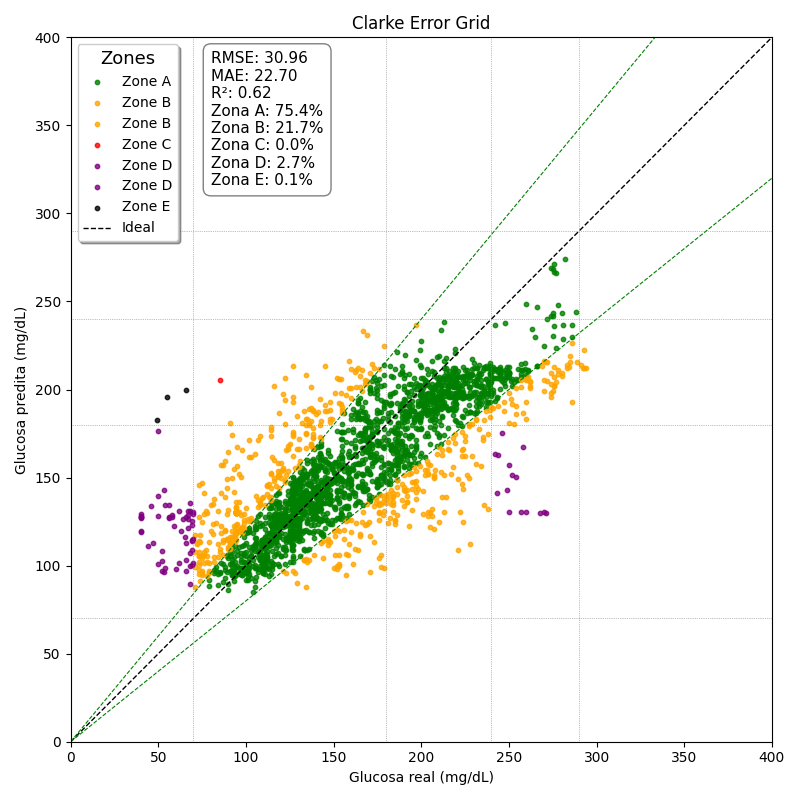
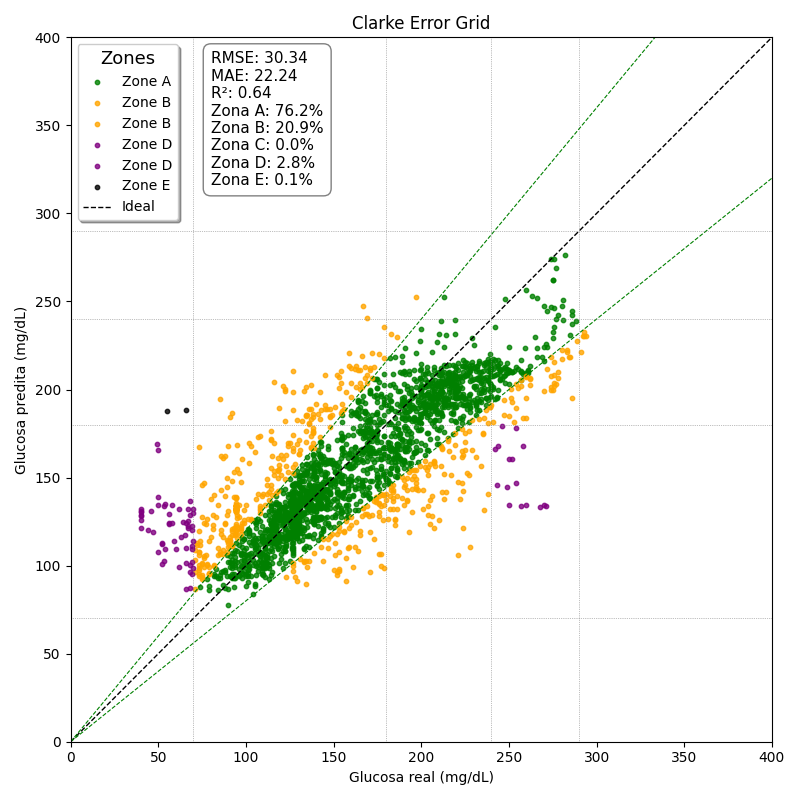
Works but could be better

diff --git a/models/training.py b/models/training.py
@@ -1,12 +1,20 @@
+""" Model training using XGBRegressor """
 from sklearn.model_selection import GridSearchCV, RandomizedSearchCV
 from sklearn.metrics import mean_squared_error
 from sklearn.preprocessing import MinMaxScaler, StandardScaler, RobustScaler
 import xgboost as xgb
 import numpy as np
+import json
 
-def train_model(X_train, Y_train, X_test, Y_test):
+def xgbRegressor_model(X_train, Y_train, X_test, Y_test, Search: str = "auto"):
+    from sklearn.model_selection import GridSearchCV, RandomizedSearchCV
+    from sklearn.metrics import mean_squared_error
+    from sklearn.preprocessing import StandardScaler
+    import xgboost as xgb
+    import numpy as np
+
     # Escalem les features
-    x_scaler = MinMaxScaler()
+    x_scaler = StandardScaler()
     X_train_scaled = x_scaler.fit_transform(X_train)
     X_test_scaled = x_scaler.transform(X_test)
 
@@ -15,16 +23,26 @@ def train_model(X_train, Y_train, X_test, Y_test):
     Y_test_array = Y_test.to_numpy().ravel()
 
     # Hiperparàmetres
-    param_grid = {
-        'n_estimators': [100,200],
-        'max_depth': [3, 5, 7],
-        'learning_rate': [0.01, 0.05],
-        'subsample': [0.6, 0.8],
-        'colsample_bytree': [0.6, 0.8],
-        'min_child_weight': [1, 5, 10],
-        # 'lambda': [1, 5, 10],        
-        # 'alpha': [0, 0.5, 1],        
-        'gamma': [0, 0.1],      
+    auto_distribution = {
+        'n_estimators': [100, 200, 300],
+        'max_depth': [3, 5, 6],  # Menys profunditat per evitar sobreajustament
+        'learning_rate': [0.01, 0.05, 0.1],  # Incrementar una mica el learning_rate
+        'subsample': [0.6, 0.7, 0.8],  # Provar més valors per augmentar la robustesa
+        'colsample_bytree': [0.6, 0.7, 0.8],  # Augmentar per reduir l'overfitting
+        'min_child_weight': [1, 3, 5],  # Augmentar min_child_weight per fer-ho més robust
+        'gamma': [0, 0.05, 0.1],  # Provar valors més baixos per gamma
+    }
+
+    random_distribution = {
+        'n_estimators': np.arange(100, 500, 100),
+        'learning_rate': np.linspace(0.01, 0.2, 20),  # Més alt per accelerar l'aprenentatge
+        'max_depth': np.arange(3, 15),
+        'min_child_weight': [1, 3, 5, 10],
+        'subsample': np.linspace(0.5, 0.9, 5),  # Disminuir per augmentar l'aleatorietat
+        'colsample_bytree': np.linspace(0.5, 0.9, 5),
+        'gamma': np.linspace(0, 1, 5),  # Menys gamma per fer el model més flexible
+        'reg_alpha': np.linspace(0, 2, 5),  # Regularització L1 més alta
+        'reg_lambda': np.linspace(0.1, 1, 5),  # Regularització L2 més alta
     }
 
 
@@ -35,28 +53,145 @@ def train_model(X_train, Y_train, X_test, Y_test):
         tree_method='hist',
         booster='gbtree',
         n_jobs=-1,
-        # device='gpu',
-
     )
 
-    # GridSearchCV automàtic
-    grid_search = GridSearchCV(
-        estimator=model,
-        param_grid=param_grid,
-        scoring='neg_mean_squared_error',
-        cv=3,
-        verbose=1,
-        n_jobs=-1
-    )
+    # Decidim el mètode de cerca
+    Search = Search.lower()
+    if Search == "random":
+       search_method = RandomizedSearchCV(
+            estimator=model,
+            param_distributions=random_distribution,
+            n_iter=500,
+            scoring='neg_mean_squared_error',
+            cv=5,  # Canviar de 3 a 5 per més folds
+            verbose=1,
+            random_state=42,
+            n_jobs=-1
+        )
+    elif Search == "auto":
+        search_method = GridSearchCV(
+            estimator=model,
+            param_grid=auto_distribution,
+            scoring='neg_mean_squared_error',
+            cv=5,  # Canviar de 3 a 5 per més folds
+            verbose=1,
+            n_jobs=-1
+        )
+    else:
+        raise ValueError("Search ha de ser 'auto' o 'random'")
 
-    grid_search.fit(X_train_scaled, Y_train_array)
+    # Entrenament
+    print(f"Searching hyperparameters using search method as: {Search}")
+    search_method.fit(X_train_scaled, Y_train_array)
+    # Crear directori si no existeix
+    output_dir = "ResultatsTemporals/models_parameters"
+    os.makedirs(output_dir, exist_ok=True)
 
-    print(f"Millors paràmetres trobats: {grid_search.best_params_}")
+    # Convertim a tipus natius per poder-ho guardar
+    best_params_clean = {
+        k: float(v) if isinstance(v, (np.float32, np.float64)) 
+        else int(v) if isinstance(v, (np.int32, np.int64)) 
+        else v 
+        for k, v in search_method.best_params_.items()
+    }
 
-    best_model = grid_search.best_estimator_
+    # Nom del fitxer amb ID del pacient
+    filename = f"best_params_.json"
+    filepath = os.path.join(output_dir, filename)
+
+    # Guardem
+    with open(filepath, "w") as f:
+        json.dump(best_params_clean, f, indent=4)
+
+    print(f"✅ Parameters saved at: {filepath}")
+    
+    best_model = search_method.best_estimator_
 
     # Predicció
     Y_pred = best_model.predict(X_test_scaled)
     rmse = np.sqrt(mean_squared_error(Y_test_array, Y_pred))
 
     return best_model, x_scaler, rmse, Y_pred
+
+
+
+
+""" Model training using xgb.train """
+import xgboost as xgb
+from sklearn.preprocessing import MinMaxScaler, StandardScaler, RobustScaler
+from sklearn.metrics import mean_squared_error
+import numpy as np
+import os
+import matplotlib.pyplot as plt
+import pandas as pd
+from datetime import datetime
+
+def xgbTrain_model(X_train, Y_train, X_test, Y_test):
+    # Escalem les dades
+    x_scaler = StandardScaler()
+    X_train_scaled = x_scaler.fit_transform(X_train)
+    X_test_scaled = x_scaler.transform(X_test)
+
+    Y_train_array = Y_train.to_numpy().ravel()
+    Y_test_array = Y_test.to_numpy().ravel()
+
+    # Convertim a DMatrix
+    dtrain = xgb.DMatrix(X_train_scaled, label=Y_train_array)
+    dtest = xgb.DMatrix(X_test_scaled, label=Y_test_array)
+
+    # Paràmetres del model
+    params = {
+        'objective': 'reg:squarederror',
+        'tree_method': 'hist',  
+        'eval_metric': 'rmse',
+        'learning_rate': 0.01,
+        'max_depth': 100,
+        'subsample': 0.8,
+        'colsample_bytree': 0.8,
+        'random_state': 42,
+
+    }
+
+    # Entrenament amb early stopping
+    model = xgb.train(
+        params=params,
+        dtrain=dtrain,
+        num_boost_round=10000,  # nombre màxim d’iteracions
+        evals=[(dtest, 'eval')],
+        early_stopping_rounds=50,
+        verbose_eval=False,     
+    )
+
+    # Prediccions
+    Y_pred = model.predict(dtest)
+    rmse = np.sqrt(mean_squared_error(Y_test_array, Y_pred))
+
+    # Create folder if it doesn't exist 
+    output_dir = "ResultatsTemporals/models_parameters"
+    os.makedirs(output_dir, exist_ok=True)
+
+    # Save model 
+    timestamp = datetime.now().strftime("%Y%m%d_%H%M%S")
+    model_filename = f"xgboost_model_{timestamp}.json"
+    model_path = os.path.join(output_dir, model_filename)
+    model.save_model(model_path)
+    print(f"Model saved to {model_path}")
+
+    # Plot feature importance 
+    plt.figure(figsize=(10, 6))
+    xgb.plot_importance(model, max_num_features=20)
+    plt.tight_layout()
+    plt.savefig(os.path.join(output_dir, f"importance_features_{timestamp}.png"))
+    plt.close()
+
+    # Save numeric importance to CSV 
+    importances = model.get_score(importance_type='weight')
+    importances_df = pd.DataFrame.from_dict(importances, orient='index', columns=['importance'])
+    importances_df = importances_df.sort_values(by='importance', ascending=False)
+    importances_df.to_csv(os.path.join(output_dir, "feature_importance.csv"))
+
+    print(f"Feature importance saved to {output_dir}")
+    return model, x_scaler, rmse, Y_pred
+
+
+

diff --git a/models/offline_model.py b/models/offline_model.py
@@ -1,6 +1,6 @@
 from utils.datasets import load_patient_data
 from utils.data_processing import process_all_data
-from models.training import train_model
+from models.training import xgbTrain_model,xgbRegressor_model
 from utils.evaluation import plot_glucose_timeseries
 from utils.clarke import plot_clarke_error
 from utils.filter import apply_kalman_to_data
@@ -57,8 +57,9 @@ def train_and_evaluate_offline(base_path):
             X_test = df_test_shifted.drop(columns=["glucose_level", "glucose_target", "datetime"])
             Y_test = df_test_shifted["glucose_target"]
 
-            # Train the model and get predictions
-            model, x_scaler, rmse, Y_pred = train_model(X_train, Y_train, X_test, Y_test)
+            # Train the model and get predictions: use xgbTrain_model or xgbRegressor_model
+            # model, x_scaler, rmse, Y_pred = xgbTrain_model(X_train, Y_train, X_test, Y_test)
+            best_model, x_scaler, rmse, Y_pred = xgbRegressor_model(X_train, Y_train, X_test, Y_test, Search='random')
             mae = mean_absolute_error(Y_test, Y_pred)
             r2 = r2_score(Y_test, Y_pred)
 
